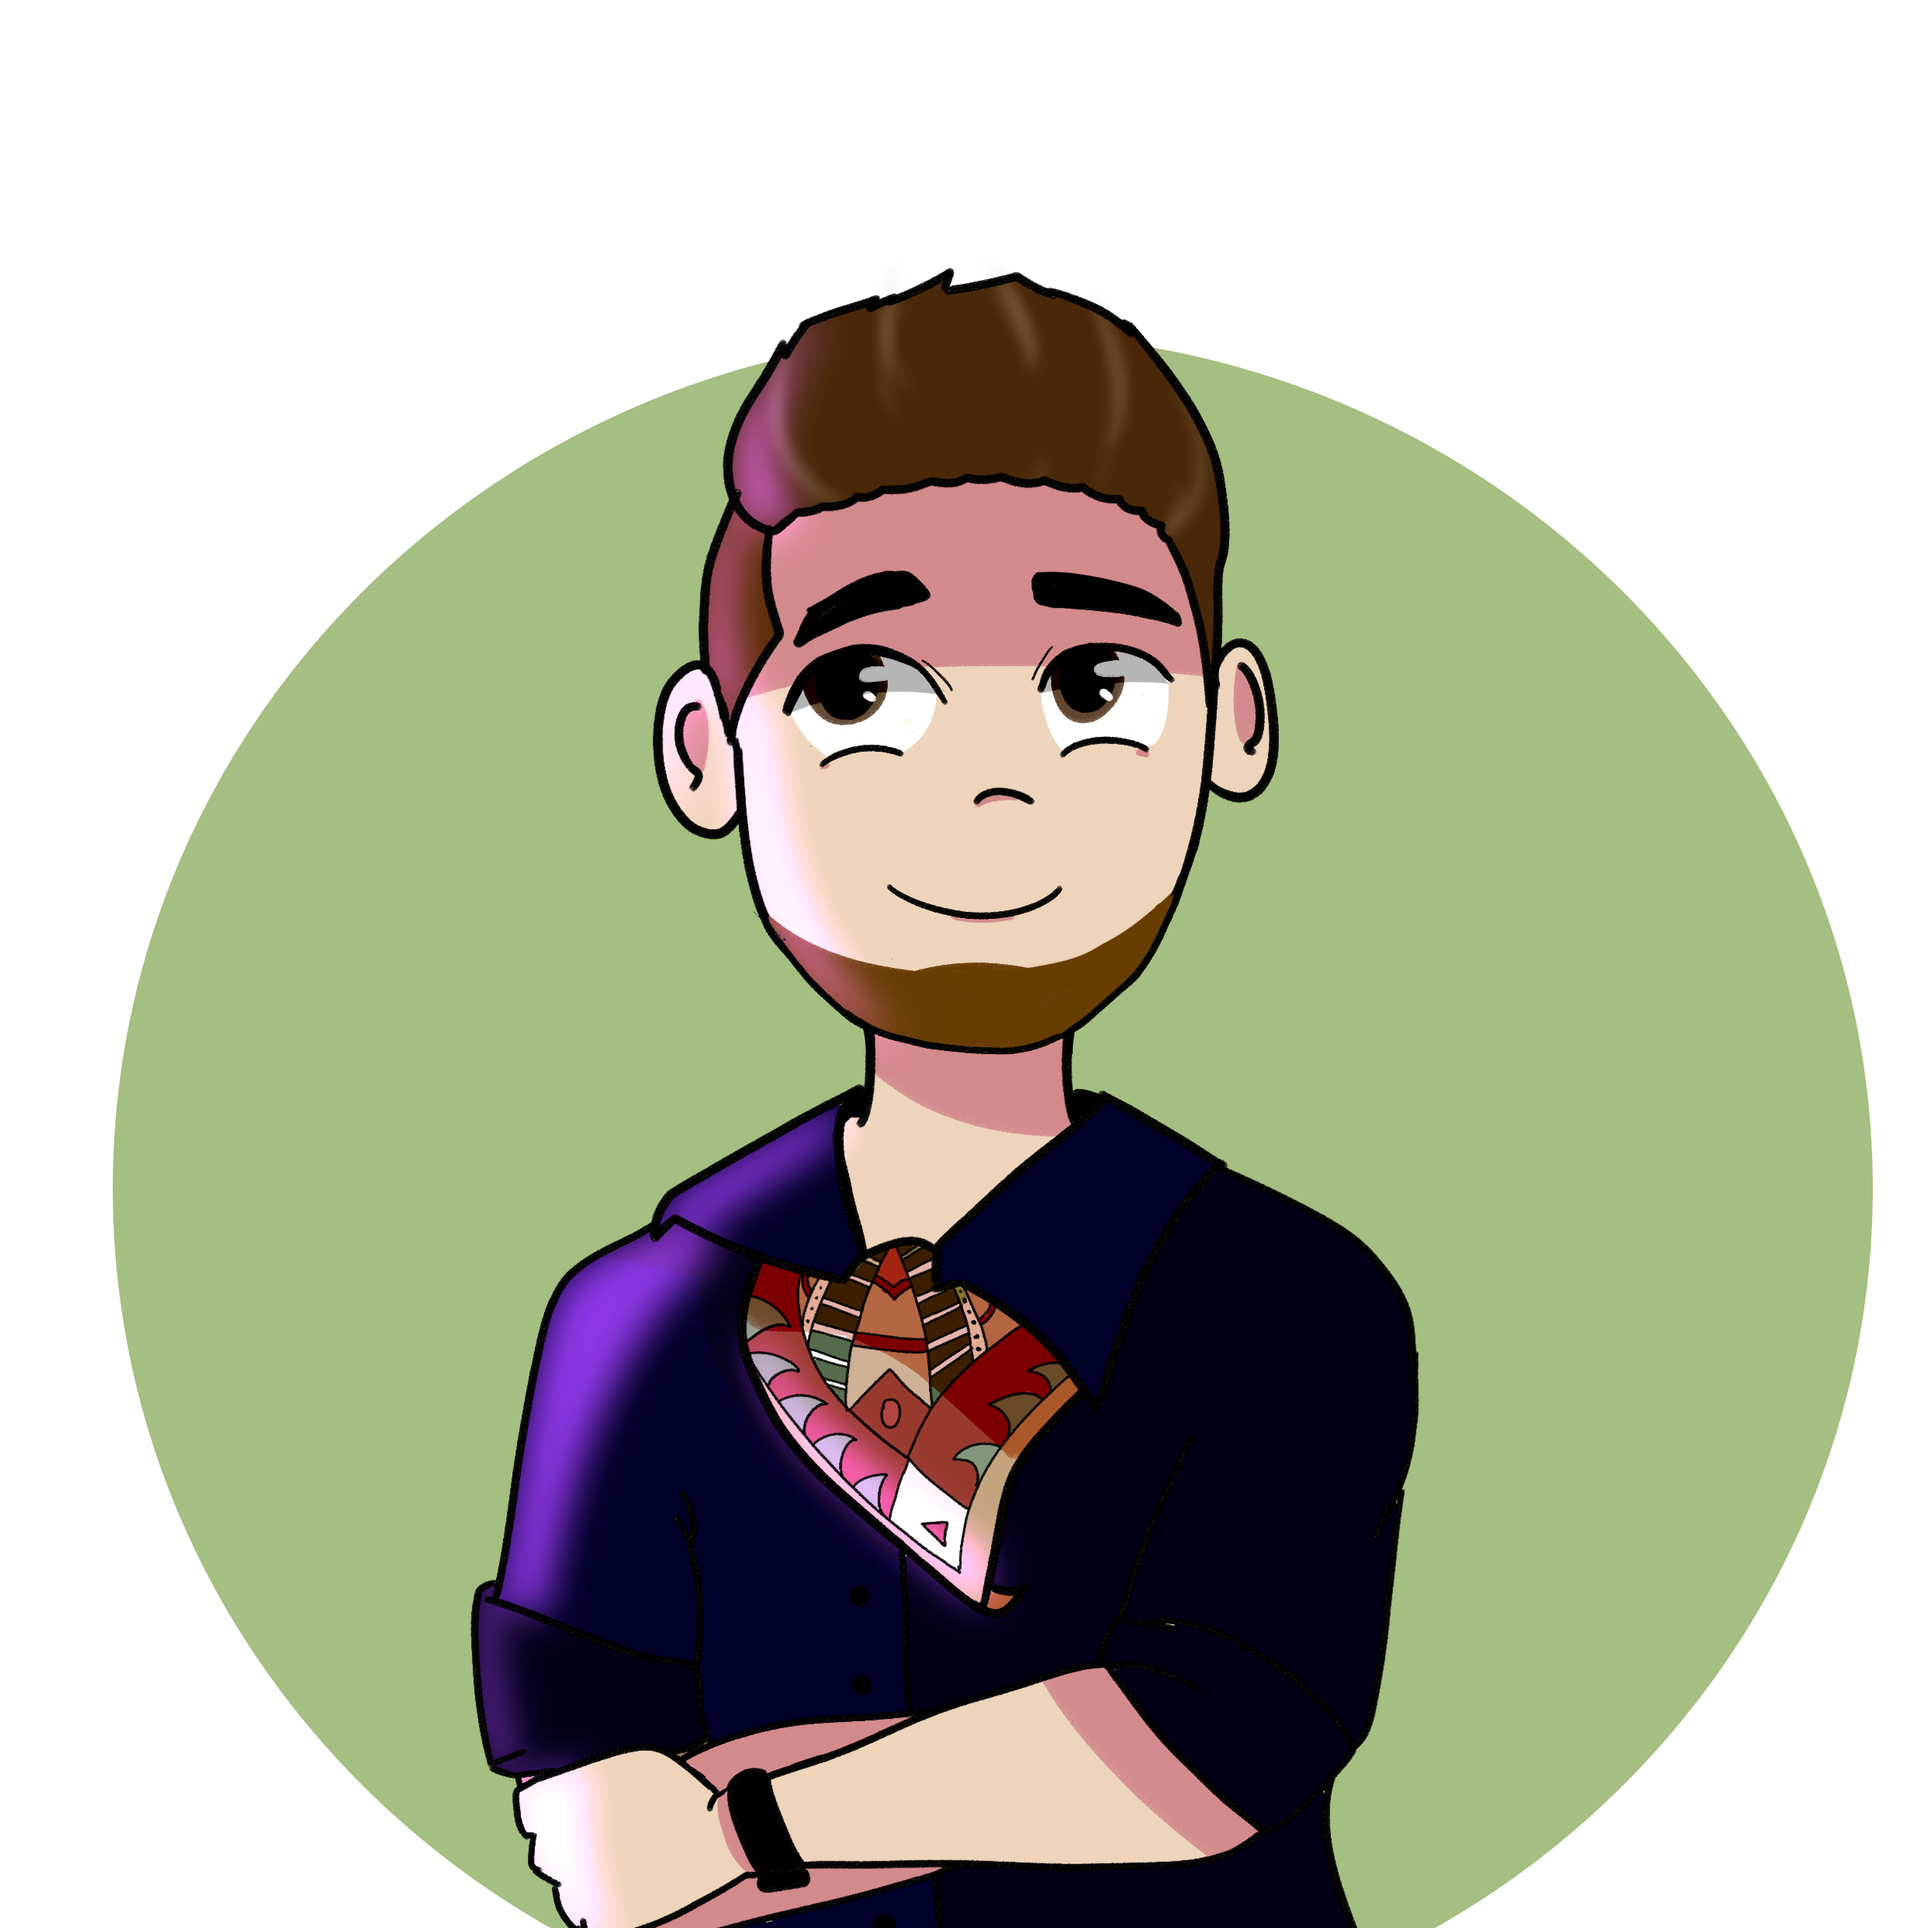
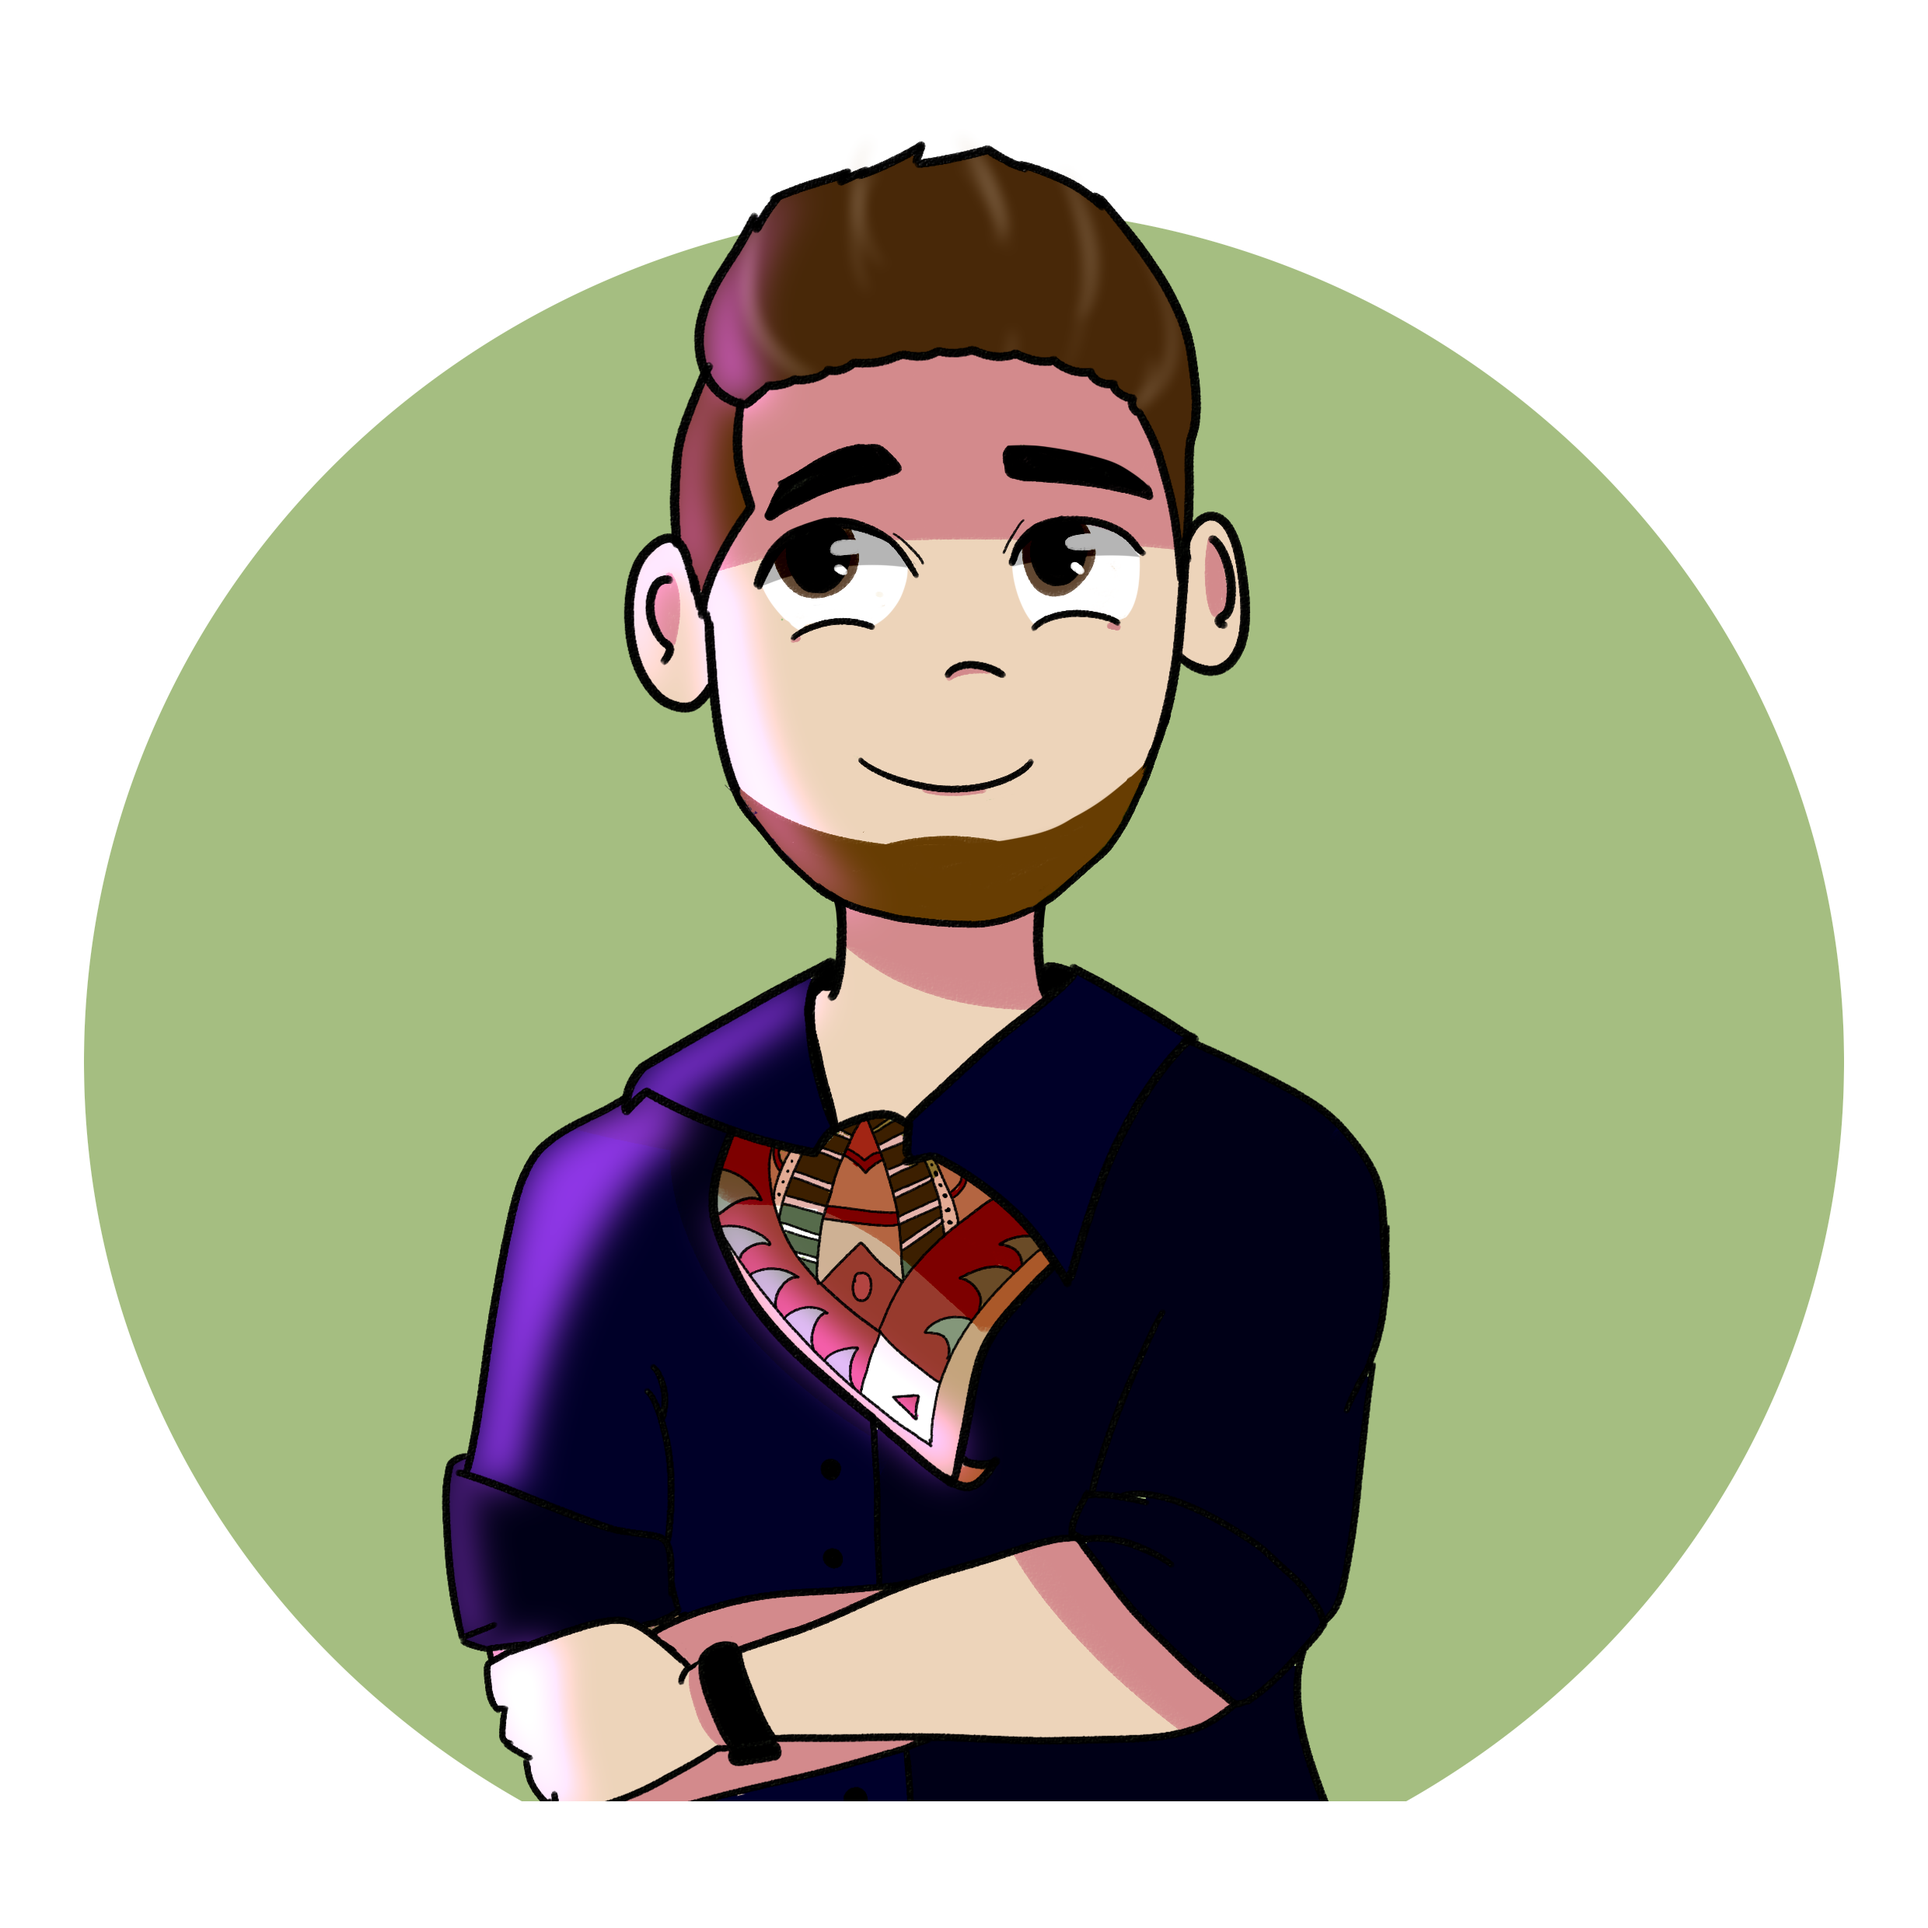
Home :D

diff --git a/src/app/home/first/first.component.css b/src/app/home/first/first.component.css
@@ -2,7 +2,16 @@
   display: flex;
   width: 100%;
   height: 100%;
-  background: cyan;
+}
+
+.buttons {
+  display: flex;
+  width: 100%;
+  justify-content: space-evenly;
+}
+
+.button {
+  background: #3E6CF7;
 }
 
 .dibujo {
@@ -12,6 +21,8 @@
   width: auto;
   height: auto;
   max-width: 85%;
+  background: #3E6CF7;
+  border-radius: 50%;
 }
 
 h1 {
@@ -52,8 +63,7 @@ p {
 }
 
 .box {
-  background-color: rgb(245, 215, 160);
-  border: 2px solid rgb(116, 113, 113);
+  background: #424242;
 
 }
 
@@ -63,5 +73,36 @@ p {
   }
   .box {
     max-height: 50%;
+  }
+}
+
+.fade-in-right {
+  animation-duration: 1s;
+  animation-name: slideinRight;
+}
+
+@keyframes slideinRight {
+  from {
+    transform: translateX(100%);
+  }
+
+  to {
+    transform: translateX(0);
+  }
+}
+
+.fade-in-left {
+  background: #424242;
+  animation-duration: 1s;
+  animation-name: slideinLeft;
+}
+
+@keyframes slideinLeft {
+  from {
+    transform: translateX(-100%);
+  }
+
+  to {
+    transform: translateX(0);
   }
 }

diff --git a/src/app/home/first/first.component.html b/src/app/home/first/first.component.html
@@ -1,10 +1,14 @@
 <div class='main'>
-  <div class="column-1 box">
+  <div class="column-1 box fade-in-left">
     <h1>👋</h1>
     <h1>Soy Santi Ruffino</h1>
-    <p>Soy Fullstack Developer. Tengo 22 años :D</p>
+    <p>Fullstack Developer. Googleador furioso de CSS</p>
+    <div class='buttons'>
+      <a mat-raised-button href="https://twitter.com/santiruffinodev" target="_blank">Twitter</a>
+      <a mat-raised-button href="https://github.com/santiruffino" target="_blank">Github</a>
+    </div>
   </div>
-  <div class="column-2 box">
-    <img src='./assets/santi.png' class='dibujo'>
+  <div class="column-2 box fade-in-right">
+    <img src='./assets/only-santi.png' class='dibujo'>
   </div>
 </div>

diff --git a/src/custom-theme.scss b/src/custom-theme.scss
@@ -12,7 +12,7 @@
 // Define the palettes for your theme using the Material Design palettes available in palette.scss
 // (imported above). For each palette, you can optionally specify a default, lighter, and darker
 // hue. Available color palettes: https://material.io/design/color/
-$new-personal-website-primary: mat-palette($mat-indigo);
+$new-personal-website-primary: mat-palette($mat-purple);
 $new-personal-website-accent: mat-palette($mat-pink, A200, A100, A400);
 
 // The warn palette is optional (defaults to red).

diff --git a/src/index.html b/src/index.html
@@ -2,7 +2,7 @@
 <html lang="en">
 <head>
   <meta charset="utf-8">
-  <title>NewPersonalWebsite</title>
+  <title>Santi Ruffino</title>
   <base href="/">
   <meta name="viewport" content="width=device-width, initial-scale=1">
   <link rel="icon" type="image/x-icon" href="favicon.ico">

diff --git a/src/app/home/home.component.css b/src/app/home/home.component.css
@@ -3,12 +3,10 @@
   flex: 1;
   flex-flow: column;
   height: 100%;
-  background: lightgray;
 }
 
 .content {
   flex: 1 1 auto;
-  background: darkcyan;
 }
 
 .section {
@@ -16,5 +14,4 @@
   height: 50%;
   border: 1px black;
   flex: 1;
-  background: darkred;
 }
